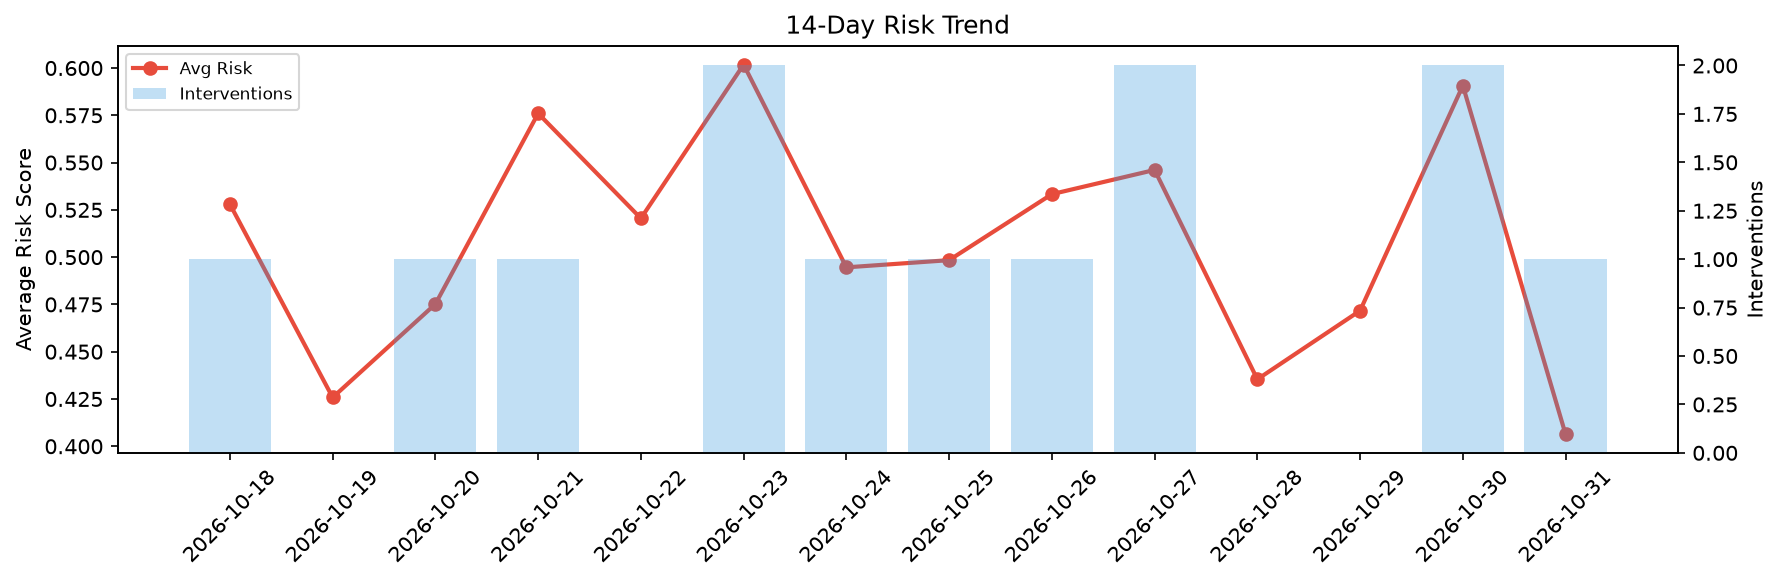
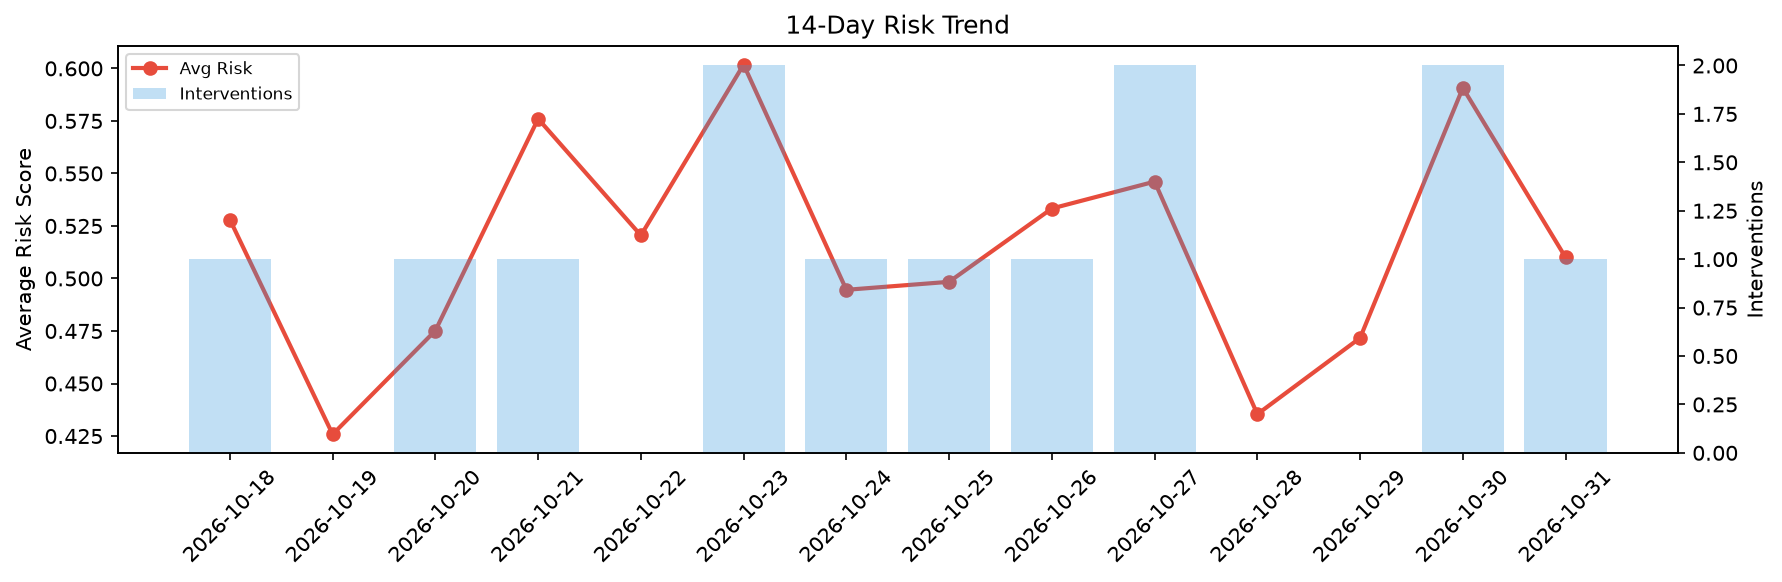
agent-improvement: daily cycle 2026-10-31T23:21

diff --git a/logs/2026-10-31.md b/logs/2026-10-31.md
@@ -1,6 +1,6 @@
 # Agent Improvement Report — 2026-10-31
 
-**Cycle ID:** `251973cb` | **Avg Risk:** 0.4063 | **Interventions:** 1/4
+**Cycle ID:** `1bb3ec44` | **Avg Risk:** 0.51 | **Interventions:** 1/4
 
 ![Dashboard](2026-10-31_dashboard.png)
 
@@ -10,18 +10,18 @@
 
 | Domain | Risk Score | Decision | Alerts |
 |--------|-----------|----------|--------|
-| code_review | 0.3924 | monitor | coverage |
-| incident_response | 0.2633 | monitor | none |
-| data_pipeline | 0.835 | intervene | freshness, schema_drift, volume_anomaly |
-| deployment | 0.1344 | monitor | none |
+| code_review | 0.4034 | monitor | none |
+| incident_response | 0.3838 | monitor | none |
+| data_pipeline | 0.5256 | monitor | freshness |
+| deployment | 0.7272 | intervene | canary_error, latency_p99 |
 
 ## Delta vs Yesterday
 
 | Domain | Today | Yesterday | Change |
 |--------|-------|-----------|--------|
-| code_review | 0.3924 | 0.7954 | 📉 -50.7% |
-| incident_response | 0.2633 | 0.4144 | 📉 -36.5% |
-| data_pipeline | 0.835 | 0.5156 | 📈 61.9% |
-| deployment | 0.1344 | 0.6376 | 📉 -78.9% |
+| code_review | 0.4034 | 0.7954 | 📉 -49.3% |
+| incident_response | 0.3838 | 0.4144 | 📉 -7.4% |
+| data_pipeline | 0.5256 | 0.5156 | 📈 1.9% |
+| deployment | 0.7272 | 0.6376 | 📈 14.1% |
 
-**Refinement:** `{'adjustment': 'maintain', 'trend': 'improving', 'window': 4}`
+**Refinement:** `{'adjustment': 'tighten_thresholds', 'trend': 'degrading', 'window': 4}`
